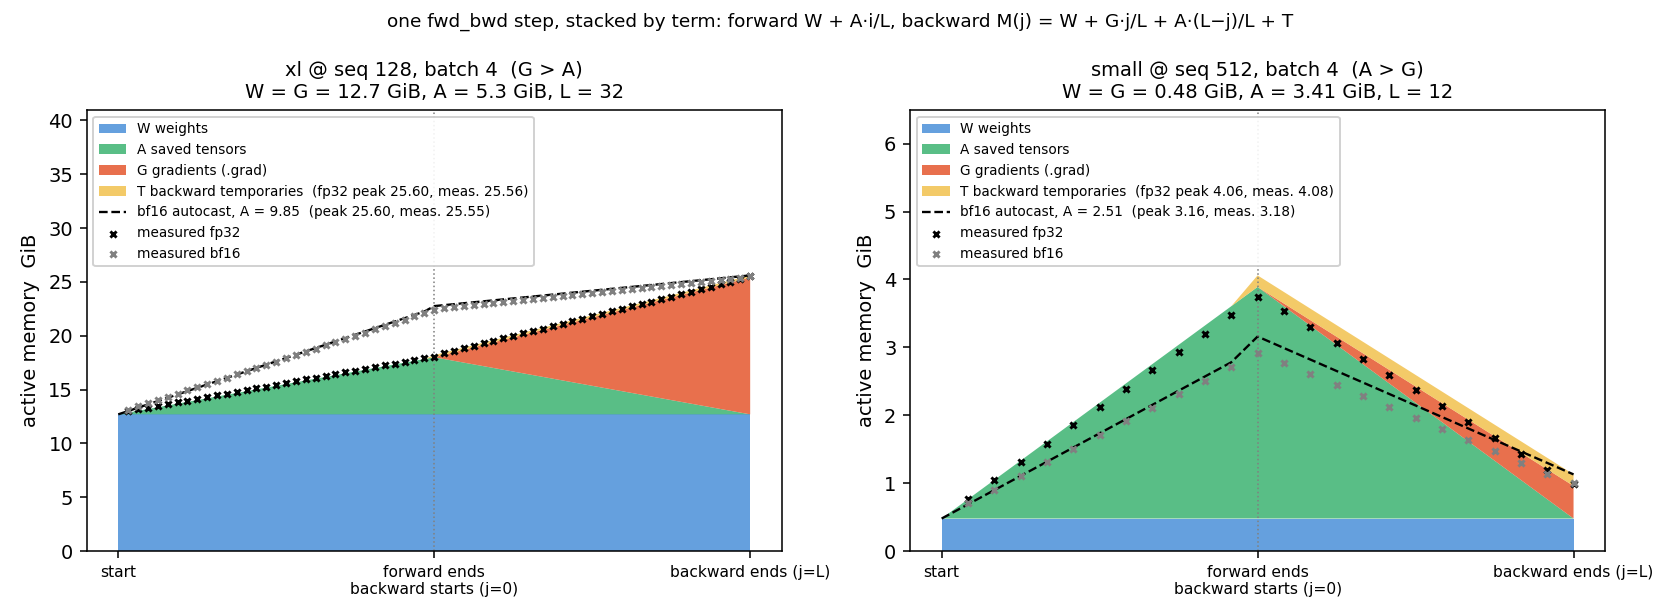
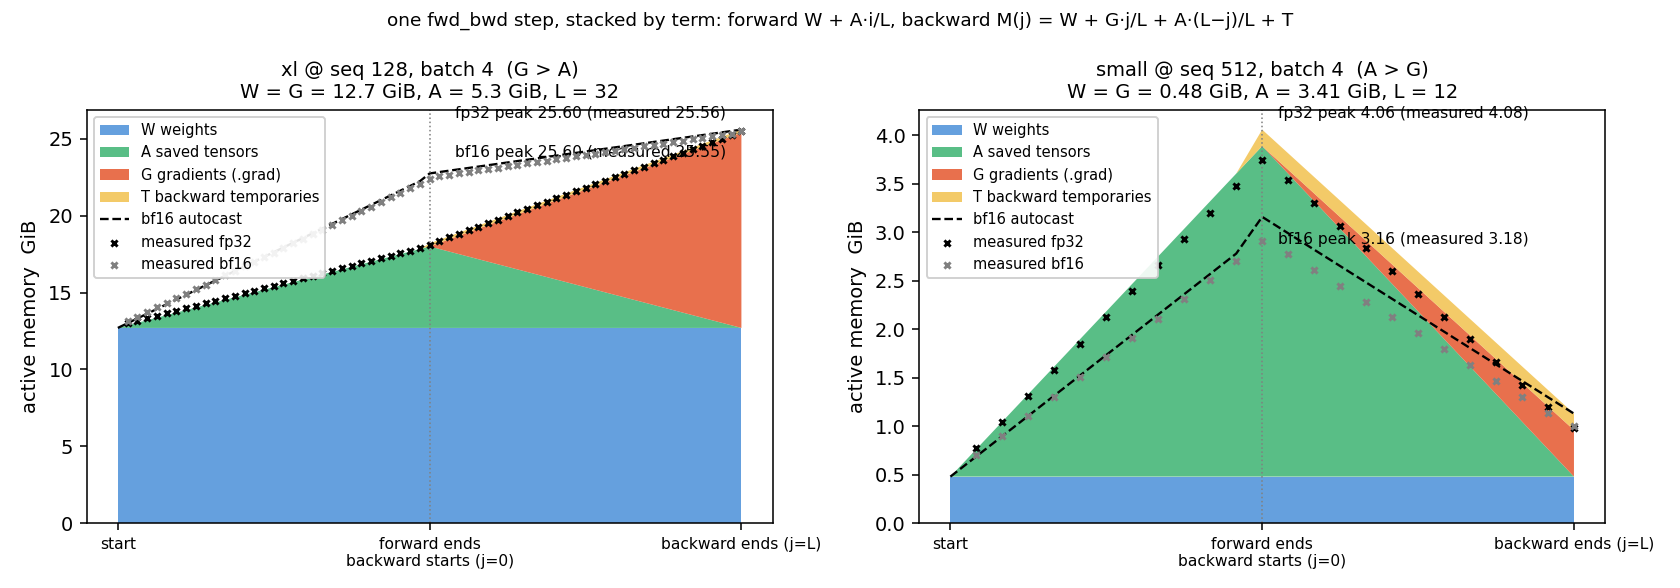
docs(blog): 图 2.2-1 恢复短图例 + 浮动峰值标注

diff --git a/hw2/notes/assets/s2/plot_peak_moment.py b/hw2/notes/assets/s2/plot_peak_moment.py
@@ -11,7 +11,7 @@ cases = [  # name, L, W, G, A_fp32, A_bf16(含副本), T, 实测峰值 fp32/bf16
     ("xl @ seq 128, batch 4  (G > A)",    32, 12.7, 12.7, 5.3,  3.5 + 6.35, 0.2,  25.56, 25.55),
     ("small @ seq 512, batch 4  (A > G)", 12, 0.48, 0.48, 3.41, 2.28 + 0.23, 0.17, 4.08, 3.18),
 ]
-fig, axes = plt.subplots(1, 2, figsize=(12, 4.4))
+fig, axes = plt.subplots(1, 2, figsize=(12, 4.2))
 for ax, (name, L, W, G, A, A16, T, p32, p16) in zip(axes, cases):
     xs = list(range(2 * L + 1))
     # 四项随 x 的值：前向 i=0..L，反向 j=1..L
@@ -21,10 +21,16 @@ for ax, (name, L, W, G, A, A16, T, p32, p16) in zip(axes, cases):
     t = [0] * L + [T] * (L + 1)
     tot = [w[i] + a[i] + g[i] + t[i] for i in xs]
     ax.stackplot(xs, w, a, g, t, colors=[C["W"], C["A"], C["G"], C["T"]],
-                 labels=["W weights", "A saved tensors", "G gradients (.grad)", f"T backward temporaries  (fp32 peak {max(tot):.2f}, meas. {p32})"], alpha=.85)
+                 labels=["W weights", "A saved tensors", "G gradients (.grad)", "T backward temporaries"], alpha=.85)
+    kp = max(xs, key=lambda x: tot[x])
+    ax.annotate(f"fp32 peak {tot[kp]:.2f} (measured {p32})", (kp, tot[kp]), textcoords="offset points",
+                xytext=(-8, 6) if kp > L else (8, 6), ha="right" if kp > L else "left", fontsize=8)
     # bf16 autocast：A 换成 A16（含副本），其余不变
     m16 = [W + A16 * i / L for i in range(L)] + [W + A16 + T] + [W + G * j / L + A16 * (L - j) / L + T for j in range(1, L + 1)]
-    ax.plot(xs, m16, c="k", ls="--", lw=1.2, label=f"bf16 autocast, A = {A16:.2f}  (peak {max(m16):.2f}, meas. {p16})")
+    ax.plot(xs, m16, c="k", ls="--", lw=1.2, label="bf16 autocast")
+    kp16 = max(xs, key=lambda x: m16[x])
+    ax.annotate(f"bf16 peak {m16[kp16]:.2f} (measured {p16})", (kp16, m16[kp16]), textcoords="offset points",
+                xytext=(-8, -14) if kp16 > L else (8, -14), ha="right" if kp16 > L else "left", fontsize=8)
     # 实测点：每层前向结束 / 反向结束时的 memory_allocated()（measure_peak_moment.py，hook 采样）
     size = name.split()[0]
     for ac, c, lab in [(False, "k", "measured fp32"), (True, "gray", "measured bf16")]:
@@ -36,8 +42,7 @@ for ax, (name, L, W, G, A, A16, T, p32, p16) in zip(axes, cases):
     ax.set_title(f"{name}\nW = G = {W} GiB, A = {A} GiB, L = {L}", fontsize=10)
     ax.set_xticks([0, L, 2 * L]); ax.set_xticklabels(["start", "forward ends\nbackward starts (j=0)", "backward ends (j=L)"], fontsize=8)
     ax.set_ylabel("active memory  GiB")
-    ax.set_ylim(0, max(max(tot), max(m16)) * 1.6)      # 顶部留空放图例
-    ax.legend(fontsize=7, loc="upper left", framealpha=.9)
+    ax.legend(fontsize=7.5, loc="upper left", framealpha=.9)
 fig.suptitle("one fwd_bwd step, stacked by term: forward W + A·i/L, backward M(j) = W + G·j/L + A·(L−j)/L + T", fontsize=9.5)
 fig.tight_layout()
 fig.savefig("notes/assets/s2/peak_moment.png", dpi=140)
